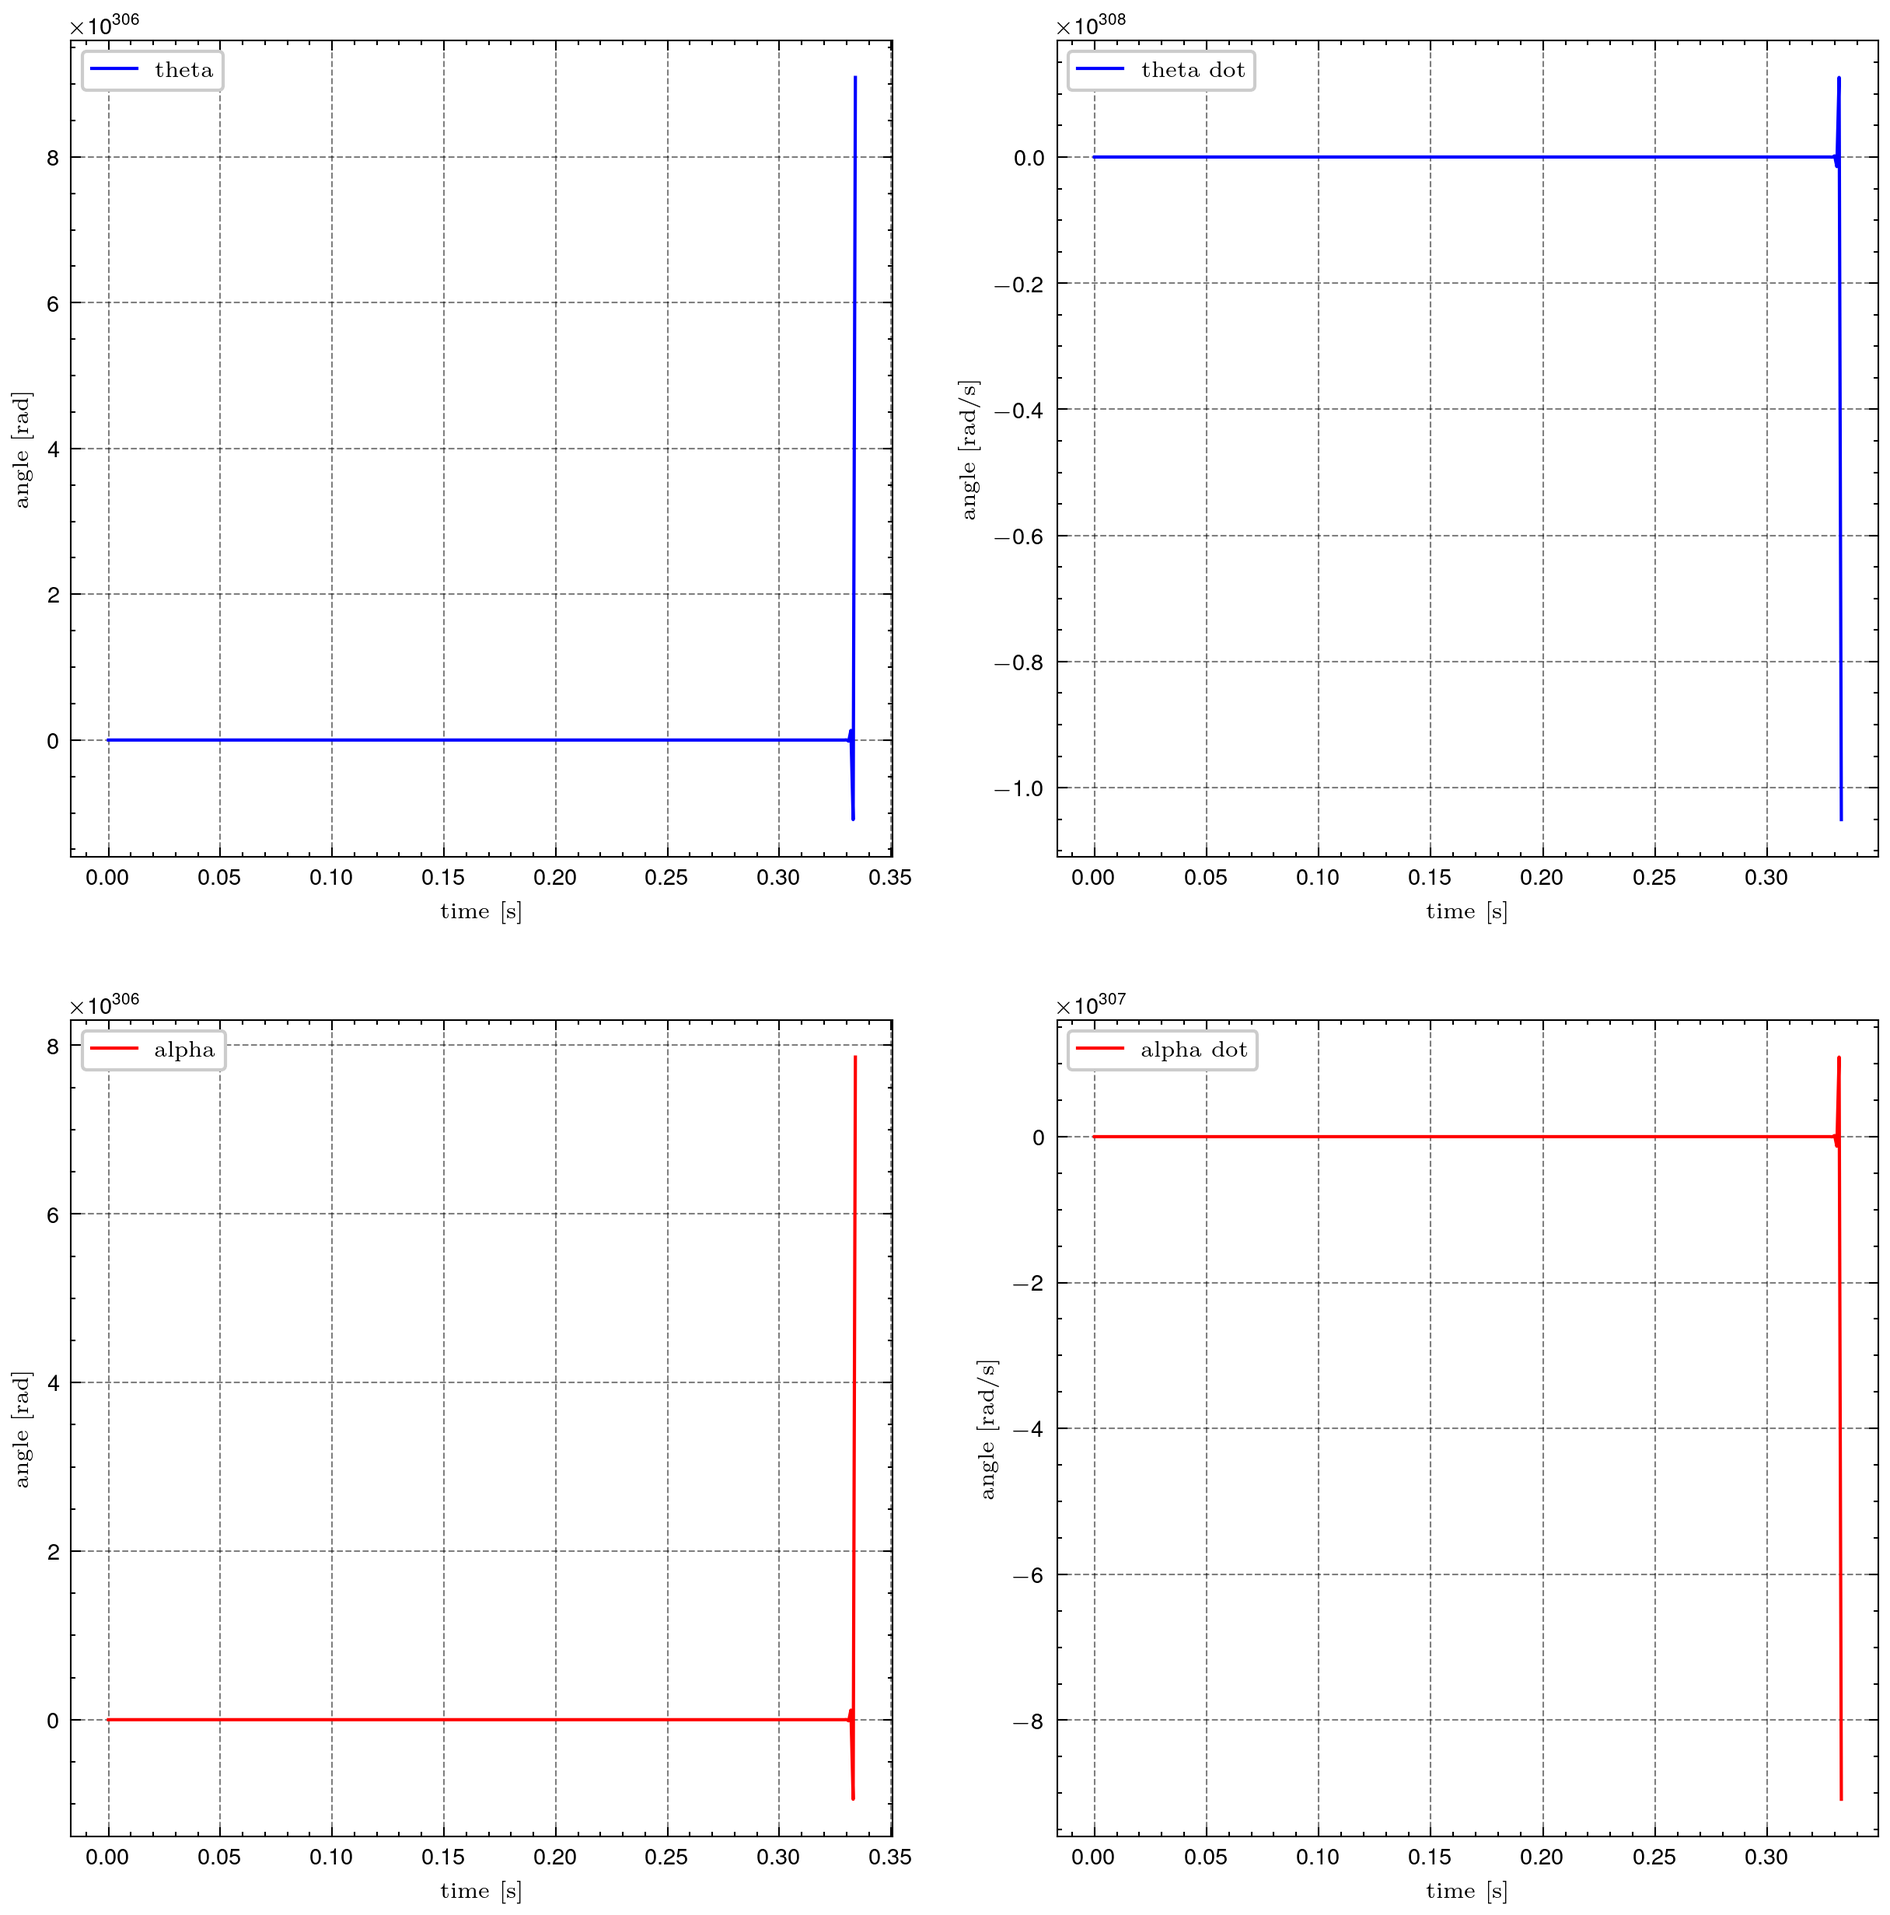
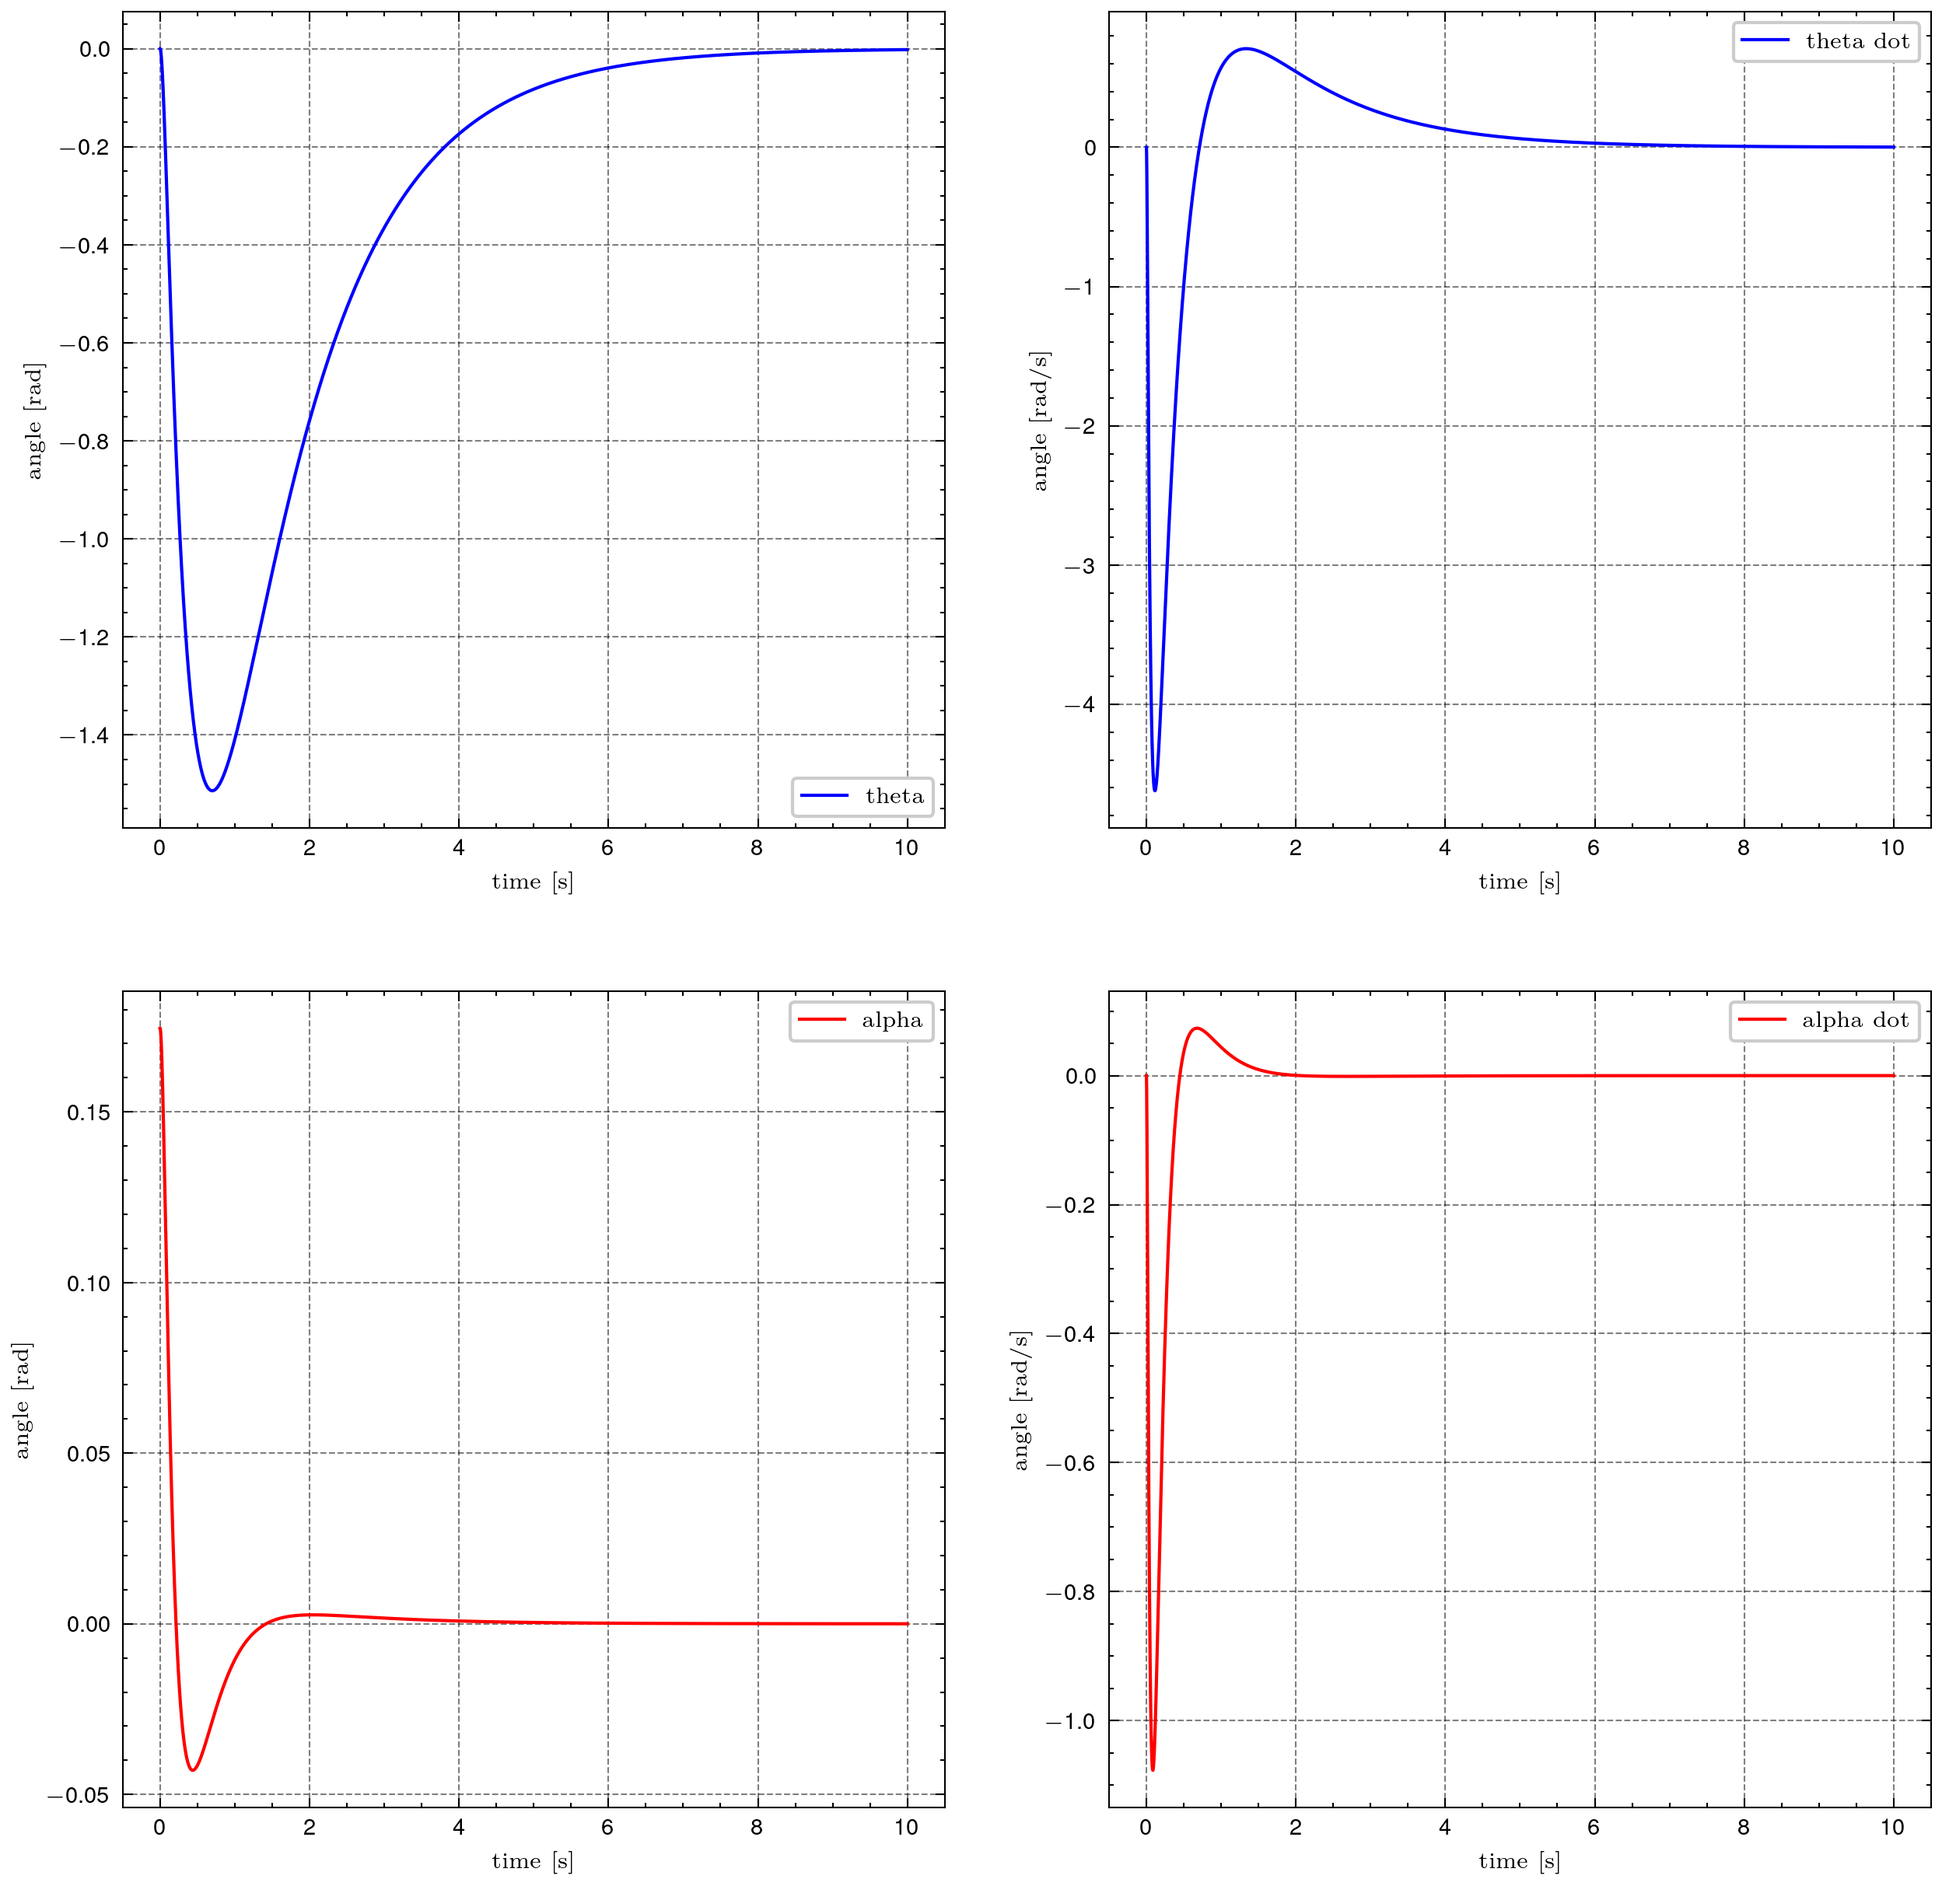
.

diff --git a/main.py b/main.py
@@ -1,5 +1,6 @@
 import numpy as np
 import matplotlib.pyplot as plt
+import control as cnt
 from system import load_matrices, var_dot
 from controller import find_controller
 
@@ -20,39 +21,33 @@ print('A + BK eigenvalues:', np.linalg.eigvals(A + B @ K))
 
 initial_condition = np.array([
   [.0],
-  [np.radians(5)],
+  [np.radians(10)],
   [.0],
   [.0]
 ])
 
-xa = np.copy(initial_condition)
+xk = np.copy(initial_condition)
 x = np.zeros((4, 1))
 
 samples = 10000
+simulation_step = 1e-3
 
-simulation_time = 10
-simulation_step = simulation_time / samples
-
-time = np.arange(0, simulation_time, simulation_step)
+time = np.arange(0, samples*simulation_step, simulation_step)
 
 theta_values = np.zeros((samples, 2))
 alpha_values = np.zeros((samples, 2))
 
-theta_values[0] = np.array([x[0], x[2]]).T
-alpha_values[0] = np.array([x[1], x[3]]).T
+theta_values[0] = np.array([xk[0], xk[2]]).T
+alpha_values[0] = np.array([xk[1], xk[3]]).T
 
 control_signal = np.zeros((samples, 1))
 
+
 for i in range(1, samples):
-  u = K @ xa
+  u = K @ xk
 
-  if u[0] > 10:
-    u[0] = 10
-  elif u[0] < -10:
-    u[0] = -10
-
-  x = A @ xa + B @ u
-  xa = x
+  x = A @ xk + B @ u
+  xk = x
 
   theta_dot = var_dot(theta_values[i - 1, 1], theta_values[i - 1, 0], x[0])
   alpha_dot = var_dot(alpha_values[i - 1, 1], alpha_values[i - 1, 0], x[1])

diff --git a/fuzzy.py b/fuzzy.py
@@ -1,0 +1,32 @@
+from system import load_matrices
+import matplotlib.pyplot as plt
+import numpy as np
+import sympy as sp
+
+
+A, B, C, D = load_matrices()
+
+theta = sp.Symbol('theta')
+
+z1 = sp.sin(2*theta)
+z3 = sp.cos(theta)
+z4 = sp.cos(theta) ** 2
+
+t = np.arange(-np.pi, np.pi, 0.01)
+x = np.arange(np.pi/4, (3*np.pi)/4, 0.01)
+
+plt.plot(t, np.sin(2*t))
+plt.plot(x, np.sin(2*x))
+
+plt.plot(x, 2.0 - 1.27323954473516*x, '--')
+plt.plot(x, 3.6 - 2.29183118052329*x, '--')
+
+
+plt.axvline(x=np.pi/4, color='r')
+plt.axvline(x=(3*np.pi)/4, color='r')
+
+# plt.axvline(x=np.pi/2, color='black', linestyle='--')
+# plt.axhline(y=0, color='black', linestyle='--')
+
+plt.savefig('z2.png', dpi=300)
+plt.show()

diff --git a/tests.py b/tests.py
@@ -1,0 +1,31 @@
+import sympy as sp
+import numpy as np
+
+
+def line_a_b(a, b):
+  x, y, x1, x2, y1, y2 = sp.symbols('x y x1 x2 y1 y2')
+
+  f = ((y2 - y1) / (x2 - x1)) * (x - x1)
+  z = y - y1
+
+  res = sp.solve(f - z, y)[0]
+
+  a_x = a[0]
+  a_y = a[1]
+
+  b_x = b[0]
+  b_y = b[1]
+
+  return res.subs({
+    x1: a_x,
+    y1: a_y,
+    x2: b_x,
+    y2: b_y
+  })
+
+
+p1 = [np.pi, 1]
+p2 = [-np.pi, -1]
+
+line = line_a_b(p1, p2)
+print(line)

diff --git a/controller.py b/controller.py
@@ -53,8 +53,8 @@ LMI2 = cvx.vstack([LMI2_1, LMI2_2])
 # # END LMI 2
 
 constraints = [
-  LMI1 << -np.eye(9) * 1e-9,
-  LMI2 >> np.eye(5) * 1e-9,
+  LMI1 << -np.eye(LMI1.shape[0]) * 1e-9,
+  LMI2 >> np.eye(LMI2.shape[0]) * 1e-9,
 ]
 
 
